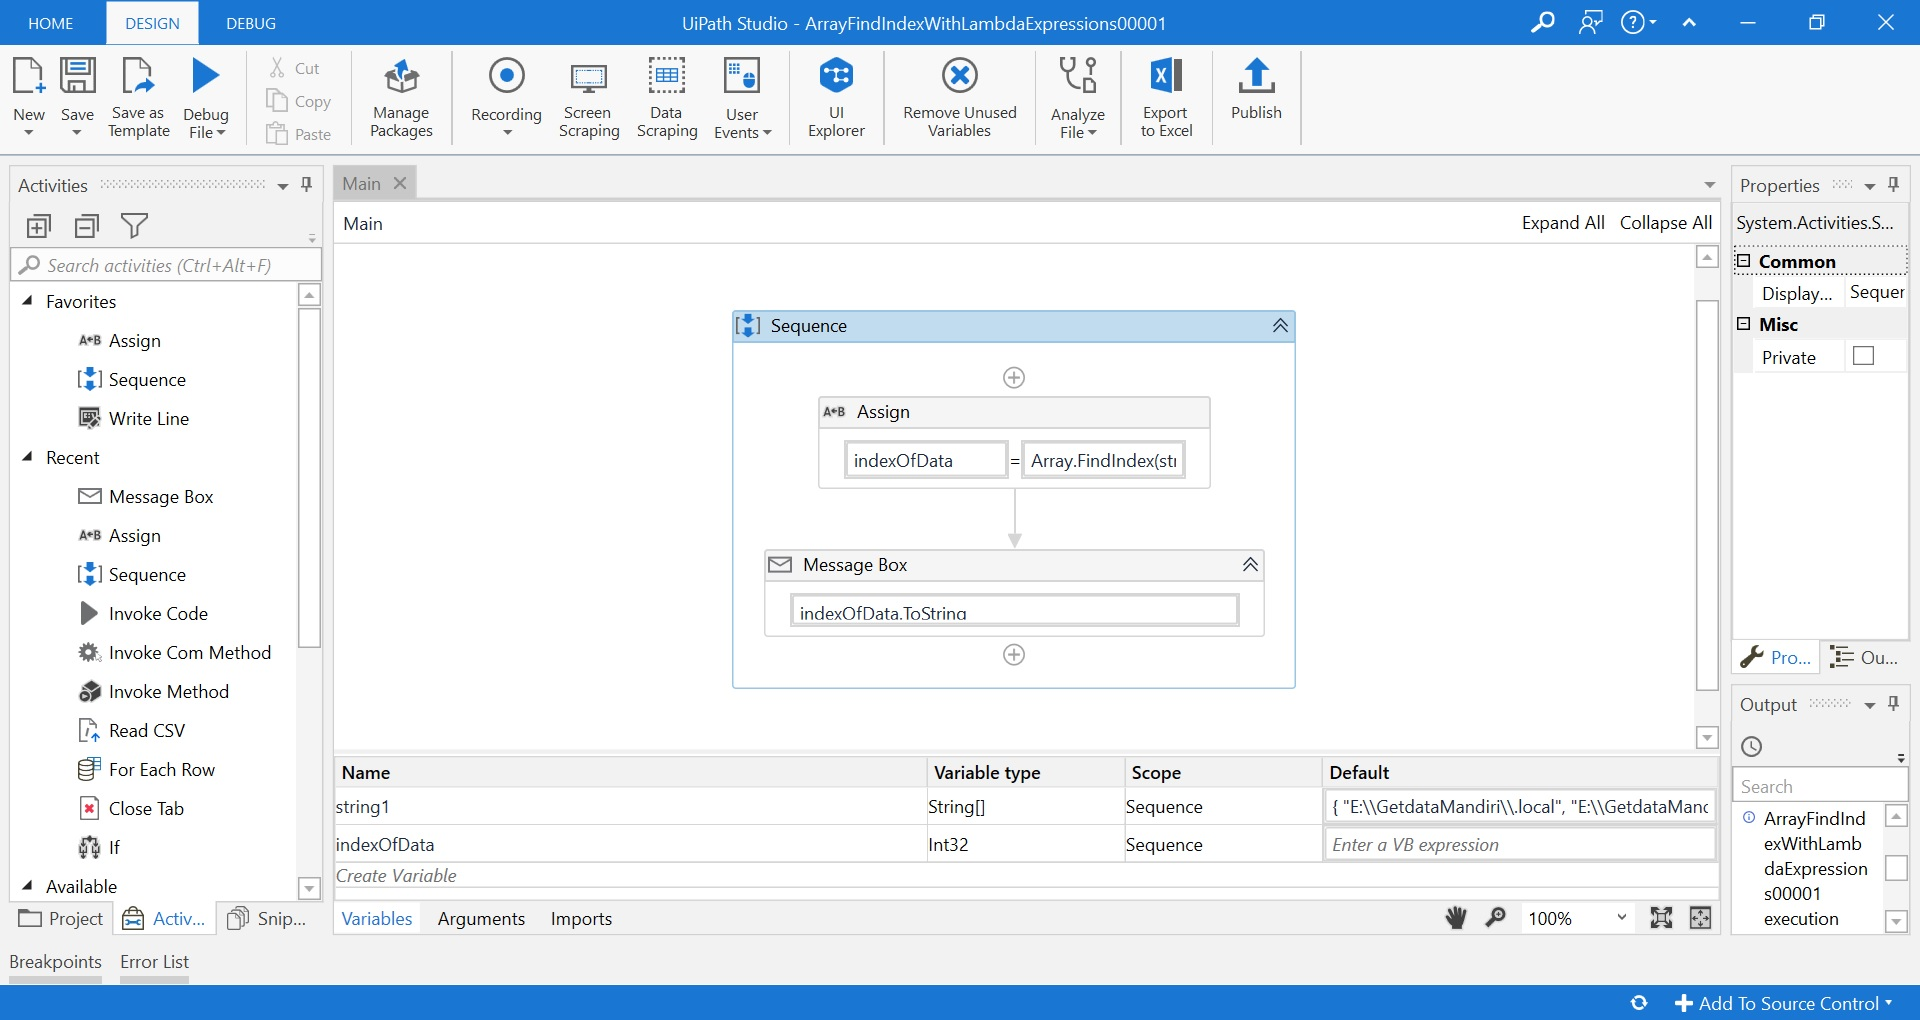
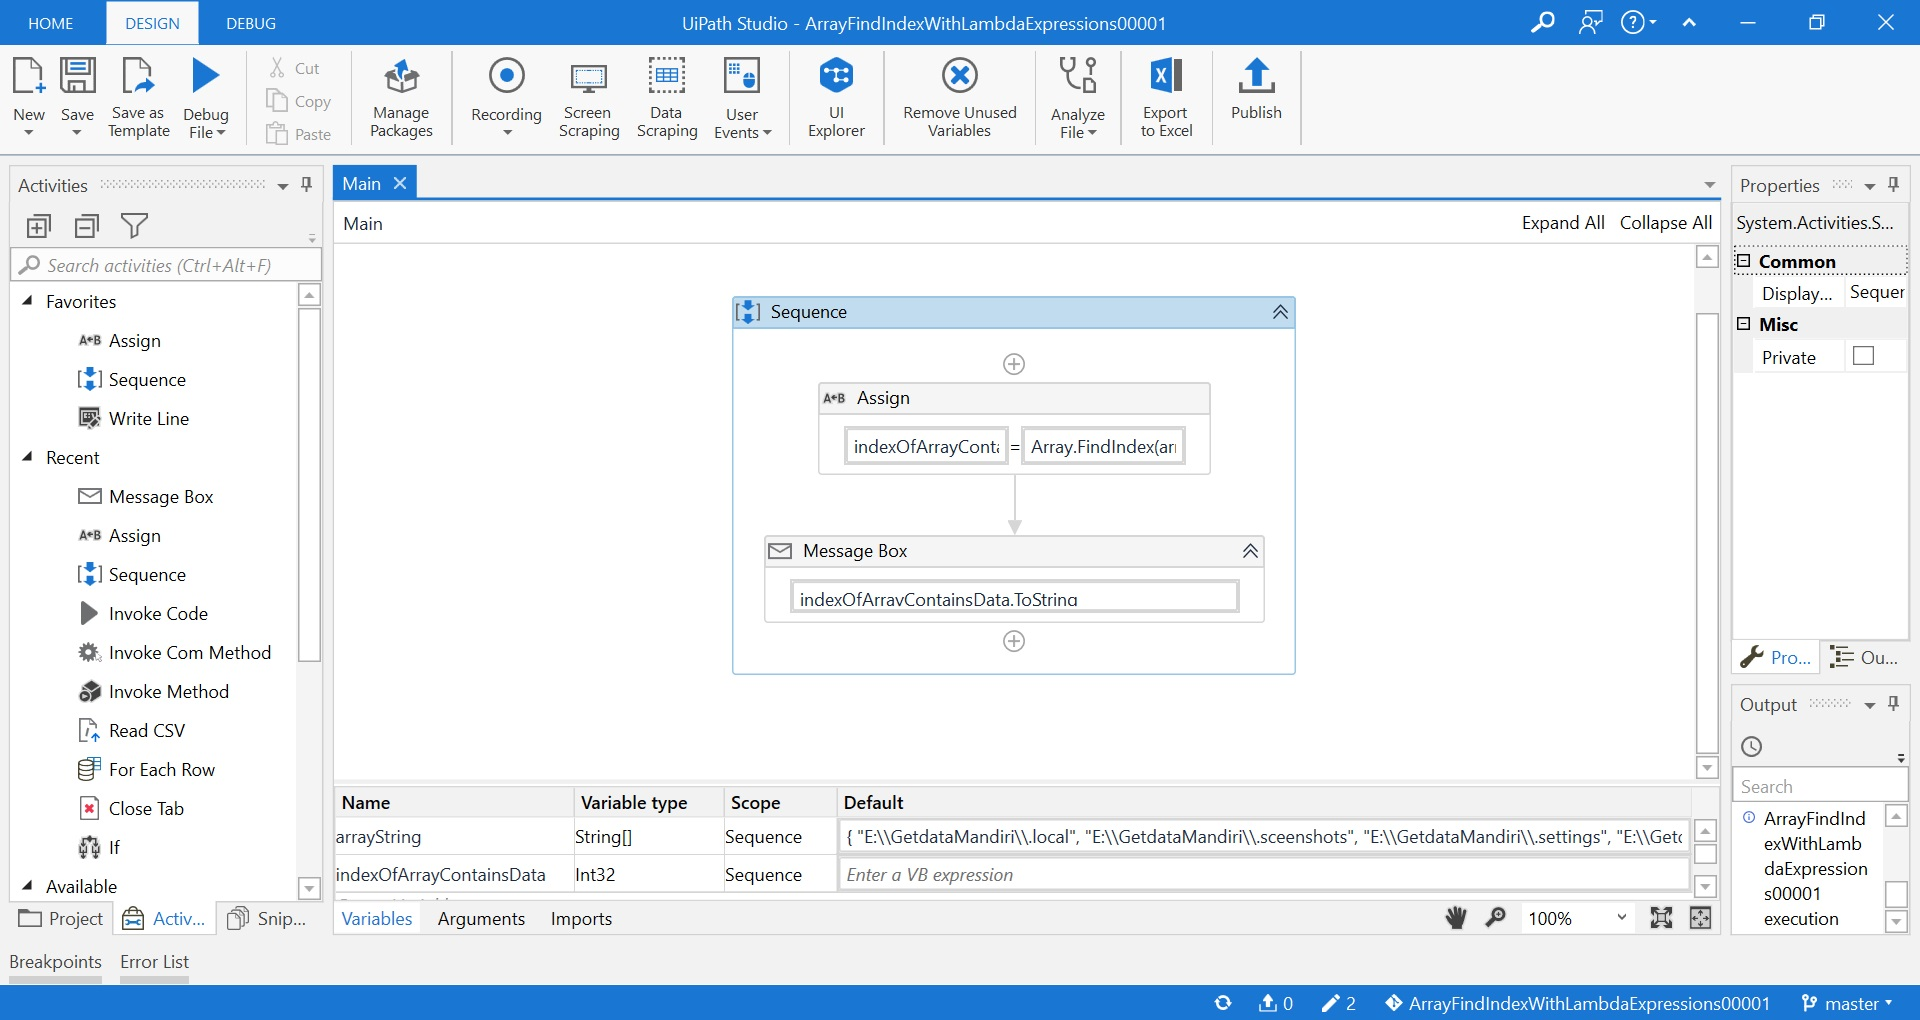
Update program

diff --git a/Main.xaml b/Main.xaml
@@ -46,8 +46,8 @@
   </TextExpression.ReferencesForImplementation>
   <Sequence sap:VirtualizedContainerService.HintSize="376,252.666666666667" sap2010:WorkflowViewState.IdRef="Sequence_1">
     <Sequence.Variables>
-      <Variable x:TypeArguments="s:String[]" Default="[{ &quot;E:\\GetdataMandiri\\.local&quot;, &quot;E:\\GetdataMandiri\\.sceenshots&quot;, &quot;E:\\GetdataMandiri\\.settings&quot;, &quot;E:\\GetdataMandiri\\backup&quot;, &quot;E:\\GetdataMandiri\\Data&quot; }]" Name="string1" />
-      <Variable x:TypeArguments="x:Int32" Name="indexOfData" />
+      <Variable x:TypeArguments="s:String[]" Default="[{ &quot;E:\\GetdataMandiri\\.local&quot;, &quot;E:\\GetdataMandiri\\.sceenshots&quot;, &quot;E:\\GetdataMandiri\\.settings&quot;, &quot;E:\\GetdataMandiri\\backup&quot;, &quot;E:\\GetdataMandiri\\Data&quot; }]" Name="arrayString" />
+      <Variable x:TypeArguments="x:Int32" Name="indexOfArrayContainsData" />
     </Sequence.Variables>
     <sap:WorkflowViewStateService.ViewState>
       <scg:Dictionary x:TypeArguments="x:String, x:Object">
@@ -56,12 +56,12 @@
     </sap:WorkflowViewStateService.ViewState>
     <Assign sap:VirtualizedContainerService.HintSize="334,62" sap2010:WorkflowViewState.IdRef="Assign_1">
       <Assign.To>
-        <OutArgument x:TypeArguments="x:Int32">[indexOfData]</OutArgument>
+        <OutArgument x:TypeArguments="x:Int32">[indexOfArrayContainsData]</OutArgument>
       </Assign.To>
       <Assign.Value>
-        <InArgument x:TypeArguments="x:Int32">[Array.FindIndex(string1, Function(x) x.Contains("Data"))]</InArgument>
+        <InArgument x:TypeArguments="x:Int32">[Array.FindIndex(arrayString, Function(x) x.Contains("\\Data"))]</InArgument>
       </Assign.Value>
     </Assign>
-    <ui:MessageBox Caption="{x:Null}" ChosenButton="{x:Null}" DisplayName="Message Box" sap:VirtualizedContainerService.HintSize="334,58.6666666666667" sap2010:WorkflowViewState.IdRef="MessageBox_1" Text="[indexOfData.ToString]" />
+    <ui:MessageBox Caption="{x:Null}" ChosenButton="{x:Null}" DisplayName="Message Box" sap:VirtualizedContainerService.HintSize="334,58.6666666666667" sap2010:WorkflowViewState.IdRef="MessageBox_1" Text="[indexOfArrayContainsData.ToString]" />
   </Sequence>
 </Activity>
